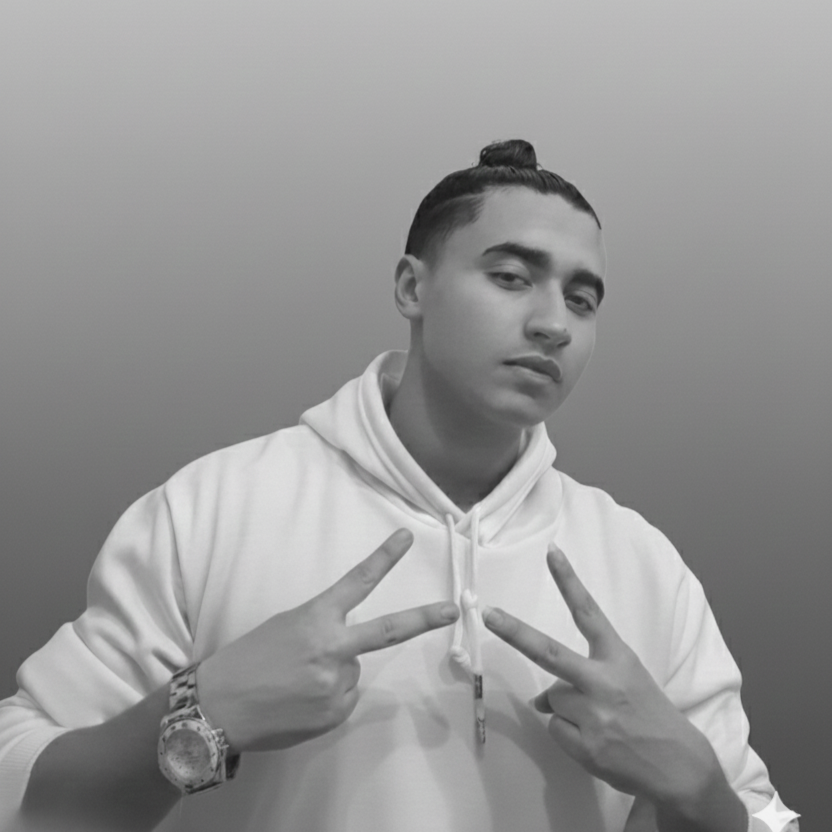
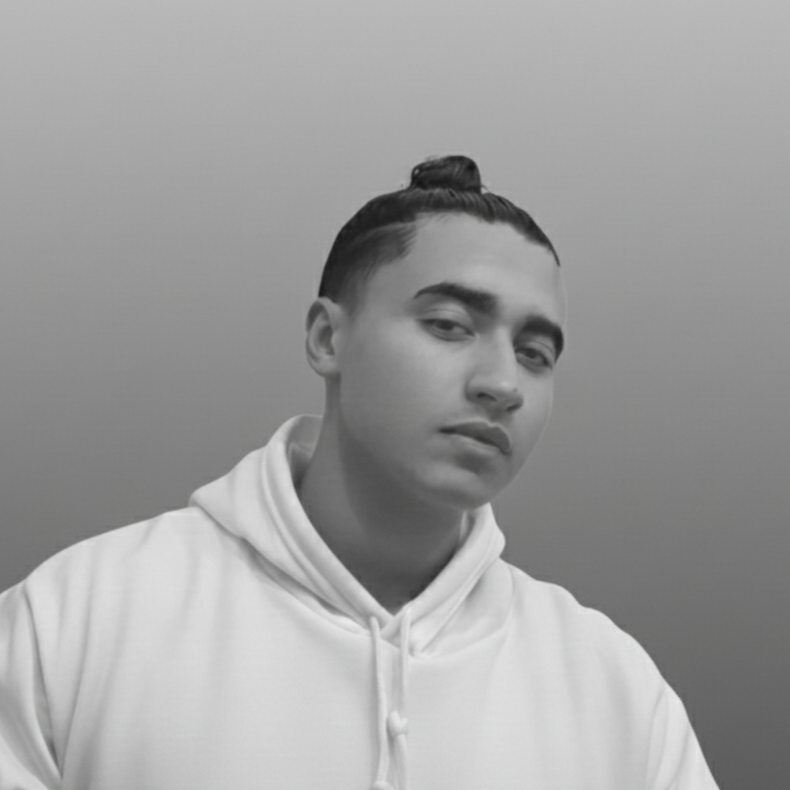
Adding Portfolio picture

diff --git a/public/index.html b/public/index.html
@@ -590,7 +590,7 @@
                 width="144"
                 height="144"
                 alt="Ziad Mohamed"
-                src="/My-Portfolio-/Photo_hu6622249658240441868.png"
+                src="/My-Portfolio-/Photo_hu8523241643125635807.png"
                 data-zoom-src="/My-Portfolio-/Photo.png">
             
           
